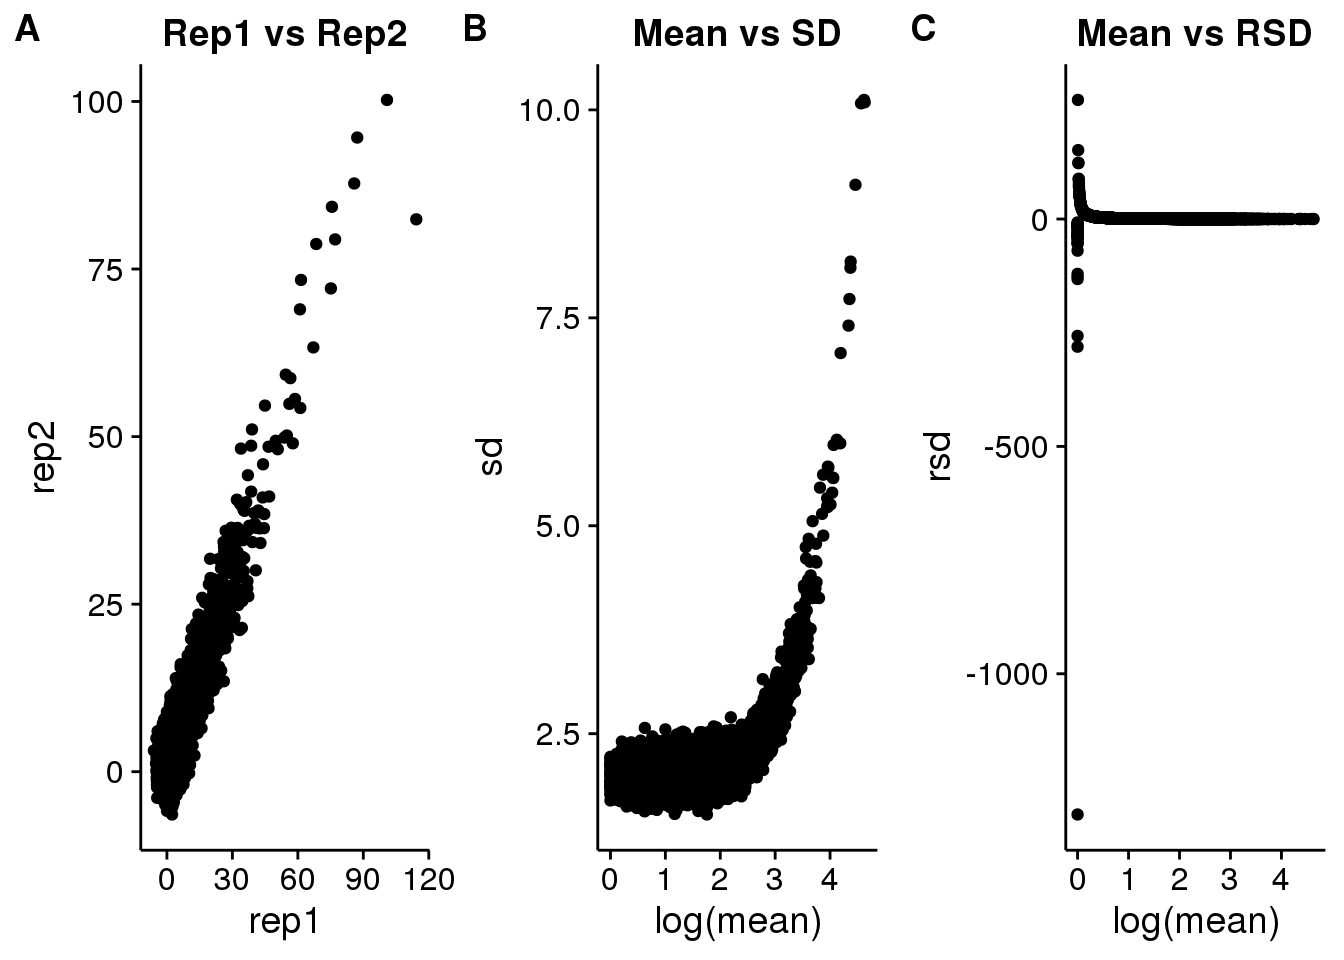
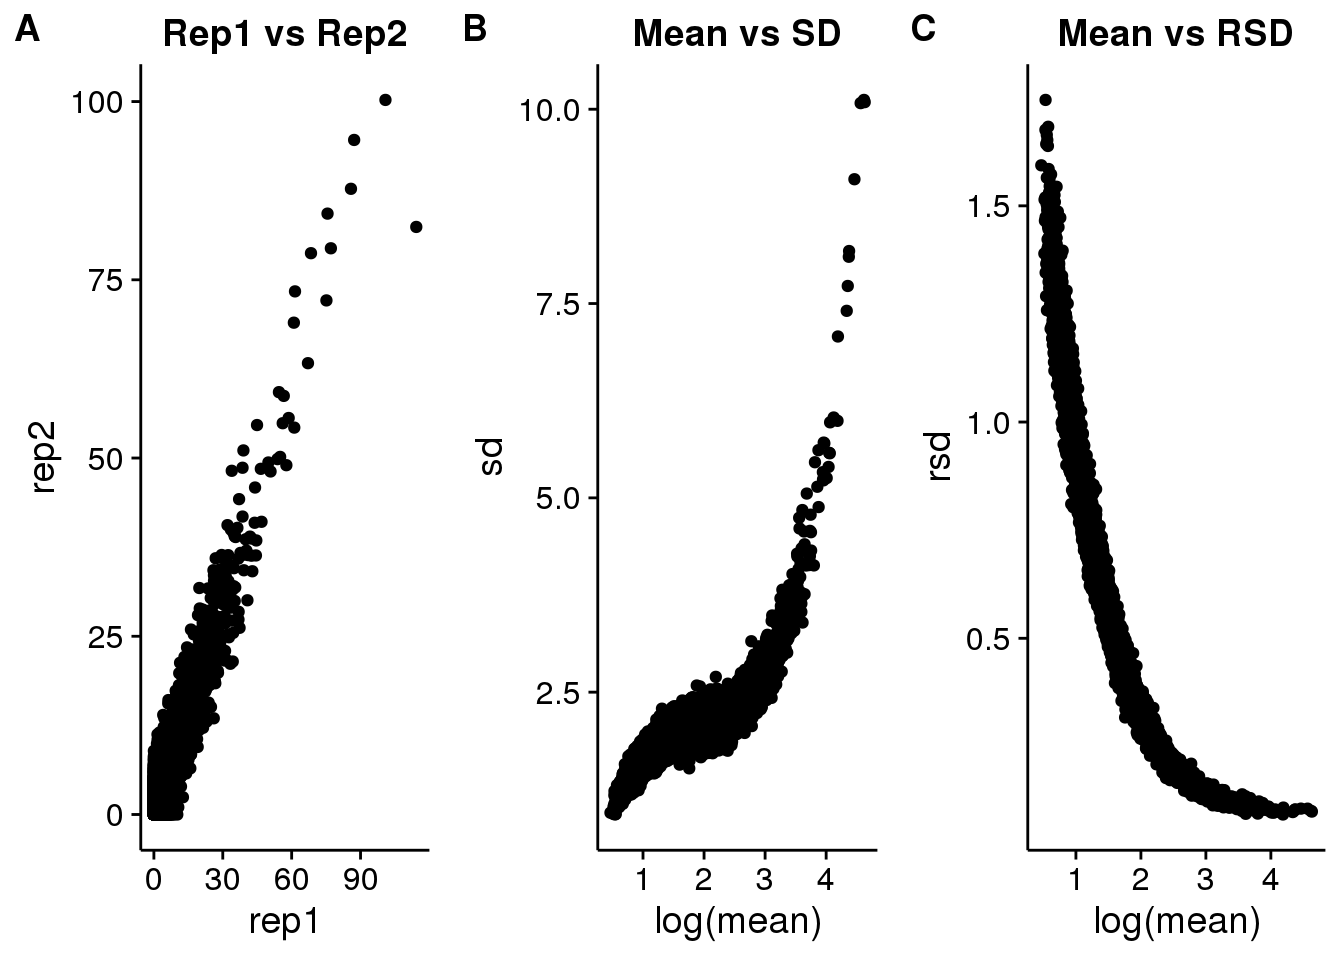
output with truncation

diff --git a/glbio2016_manuscript.knit.md b/glbio2016_manuscript.knit.md
@@ -1,7 +1,7 @@
 ---
 title: "Visualizing Effect of Data Transformations on Errors"
 author: "Robert M Flight"
-date: "2016-01-01 21:00:58"
+date: "2016-01-01 21:29:09"
 output: html_document
 ---
 
@@ -19,6 +19,26 @@ frequently from multiplicative errors that are commonly present in any data
 generated by counts at a detector (essentially all -omics data) to additive errors,
 which are more easily handled by most statistical methods.
 
+We have previously used a simple summary of replicates consisting of the **mean**,
+**standard deviation** (sd), and **relative standard deviation** (rsd) to evaluate
+the presence of and type of errors in various -omics datasets. A simple plot of
+both the **mean vs sd** and **mean vs rsd** is able to determine whether the
+errors in an experiment are primarily **additive** (random, constant, baseline 
+error), **proportional** (dependent on the signal value), or a **mixture**.
+
+Previous work has examined the influence of transformations on both the structure
+of the data and the errors through the use of replicated nuclear magnetic resonance
+(NMR) experiments (REF). Although insightful, the exact types of errors were not
+controlled, although they were likely similar to those simulated in this work.
+Most of the discussion in previous work also concentrated on the shape of the
+spectra after scaling and transformation. However, in many other -omics data
+types outside of NMR, there is no real spectra, but simply an aggregation of
+values measured on independent features, and therefore changes in shape of the
+overall spectra are largely irrelevant. More importantly are whether relative
+changes are preserved, and **how** the error structure changes.
+
+
+
 # Methods
 
 
@@ -30,7 +50,9 @@ a log-normal distribution with a mean in log-space of 1 and a standard deviation
 of 1 (see histogram in Figure X). These data points are the **pure** initial 
 data to which different types of error are added. From this set, 100 replicates are 
 generated with either *additive*, *proportional* or *mixed* (both additive and
-proportional) error.
+proportional) error. Negative values are truncated to zero, because there cannot
+be negative values when measuring the abundance of physical entities, and because
+it makes applying log-transforms even more difficult than usual.
 
 
 
@@ -69,6 +91,9 @@ of 2 and 0.1 respectively.
 
 # Results
 
+## Log Transformation
+
+Applying the 
 
 
 # Conclusion
@@ -111,6 +136,7 @@ of 2 and 0.1 respectively.
 |ggplot2                     |*  |2.0.0      |2015-12-18 |CRAN (R 3.2.2)                           |
 |GlobalOptions               |   |0.0.8      |2015-08-18 |CRAN (R 3.2.2)                           |
 |gtable                      |   |0.1.2      |2012-12-05 |CRAN (R 3.2.2)                           |
+|highr                       |   |0.5.1      |2015-09-18 |CRAN (R 3.2.2)                           |
 |htmltools                   |   |0.2.6      |2014-09-08 |CRAN (R 3.2.2)                           |
 |knitr                       |   |1.11       |2015-08-14 |CRAN (R 3.2.2)                           |
 |labeling                    |   |0.3        |2014-08-23 |CRAN (R 3.2.2)                           |
@@ -125,6 +151,7 @@ of 2 and 0.1 respectively.
 |reshape2                    |   |1.4.1      |2014-12-06 |CRAN (R 3.2.2)                           |
 |rjson                       |   |0.2.15     |2014-11-03 |CRAN (R 3.2.2)                           |
 |rmarkdown                   |   |0.8.1      |2015-10-10 |CRAN (R 3.2.2)                           |
+|rstudioapi                  |   |0.3.1      |2015-04-07 |CRAN (R 3.2.2)                           |
 |scales                      |   |0.3.0      |2015-08-25 |CRAN (R 3.2.2)                           |
 |shape                       |   |1.4.2      |2014-11-05 |CRAN (R 3.2.2)                           |
 |stringi                     |   |1.0-1      |2015-10-22 |CRAN (R 3.2.2)                           |
